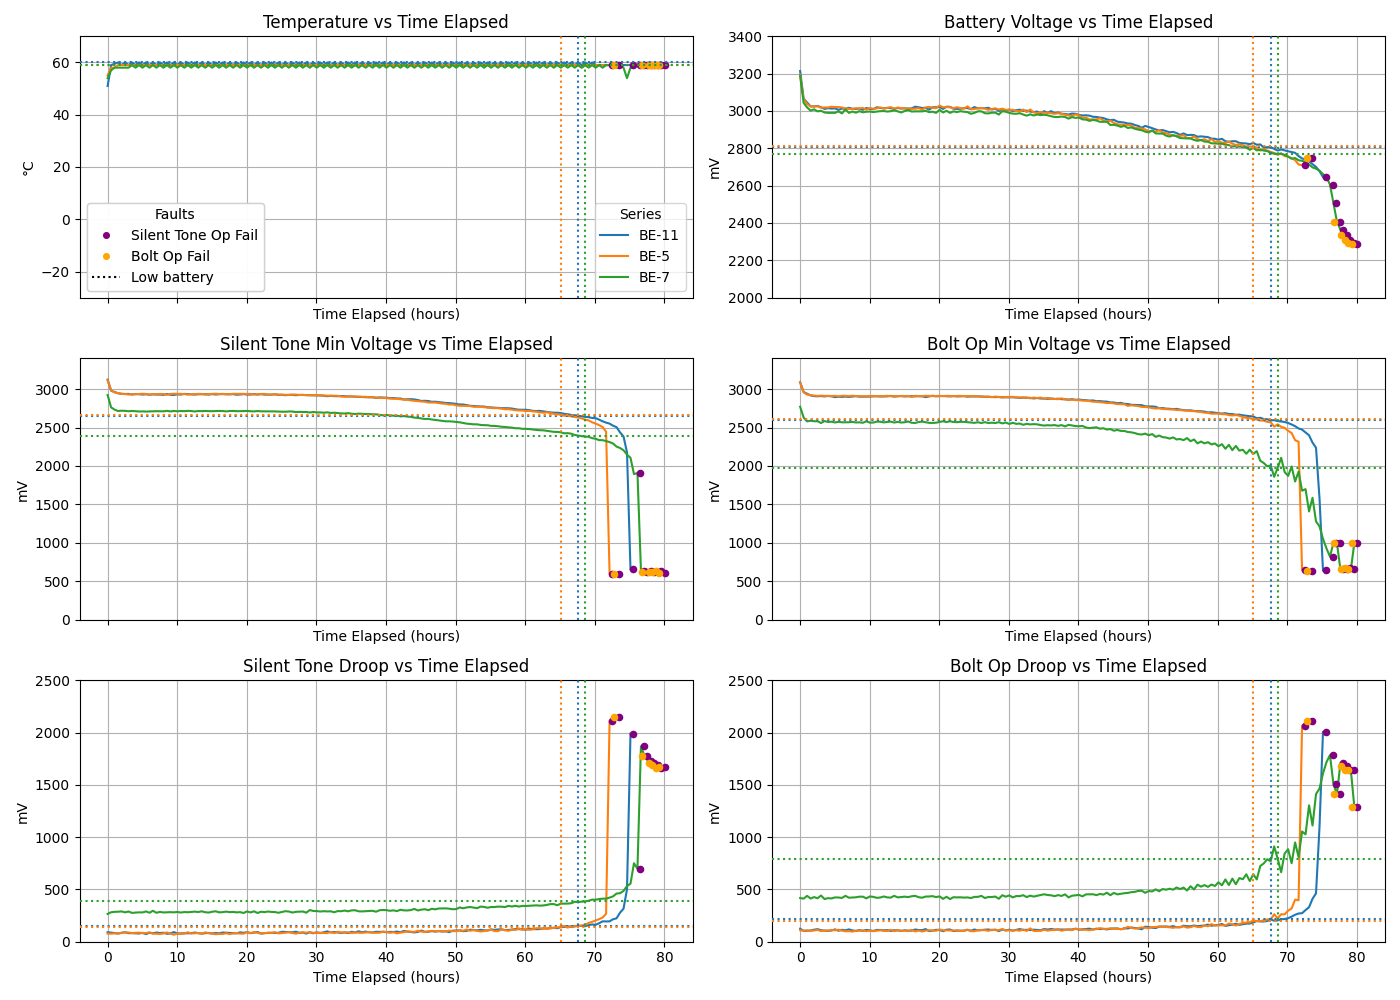
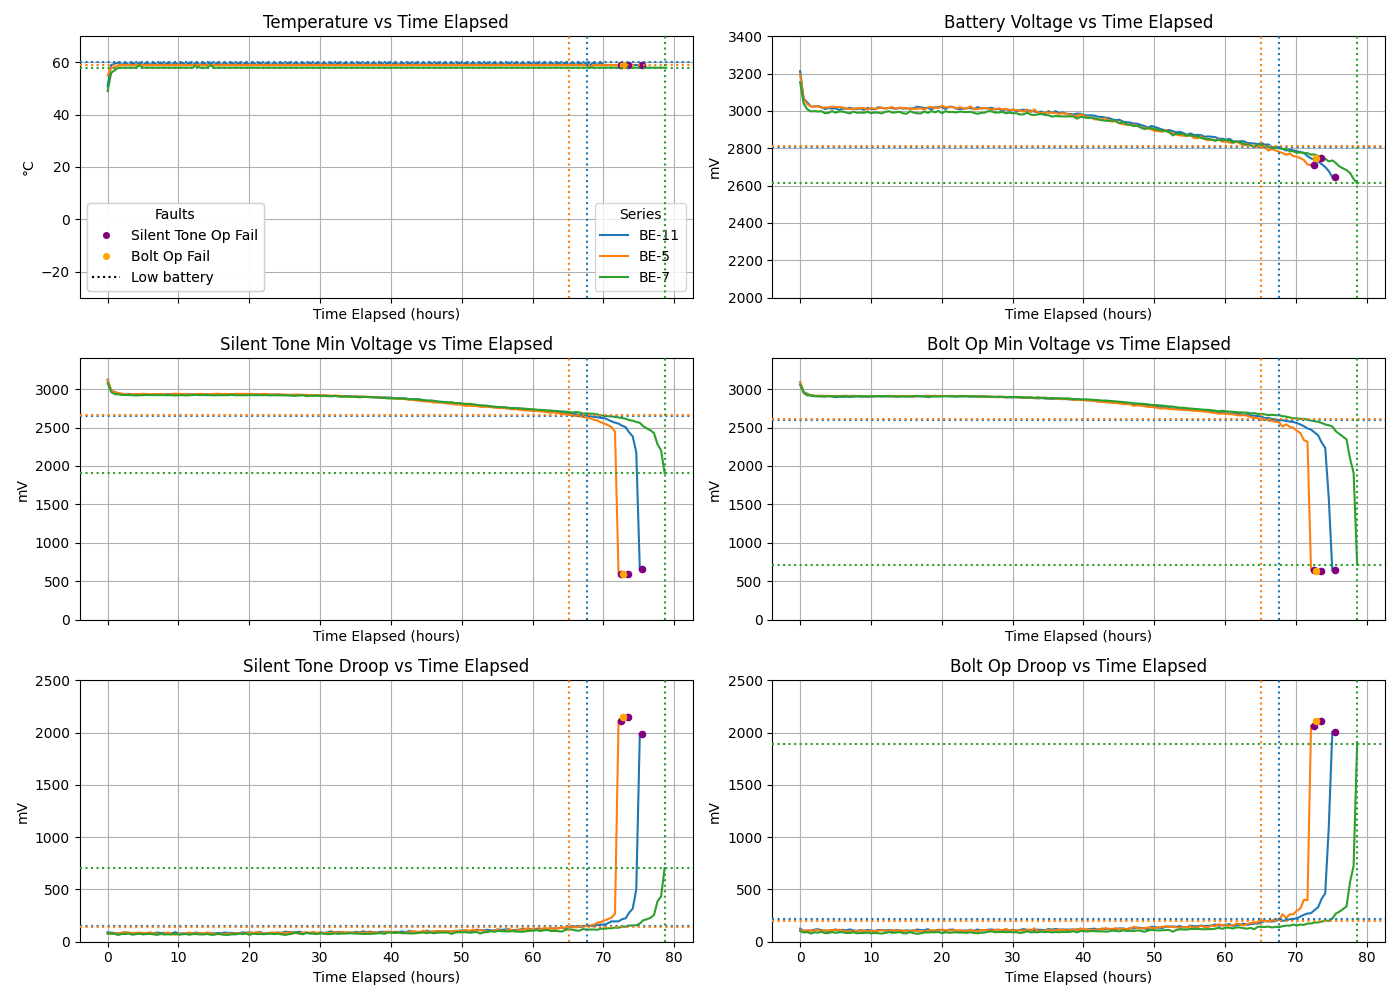
level 60c

diff --git a/plot_folder.py b/plot_folder.py
@@ -6,7 +6,7 @@ import numpy as np  # NEW
 from matplotlib.lines import Line2D
 
 # CONFIGURATION
-CSV_DIR = "csvs/manufacturers-cross-temp/temp-60c/duracell"
+CSV_DIR = "csvs/manufacturers-cross-temp/temp-60c/level"
 CSV_TAG = os.path.basename(os.path.normpath(CSV_DIR))
 PLOT_OUTPUT = f"plots/compare_all_{CSV_DIR.replace("/", "-")}.png"
 COMPUTE_LOW_BATT_BY_ALL_FAULTS=True
